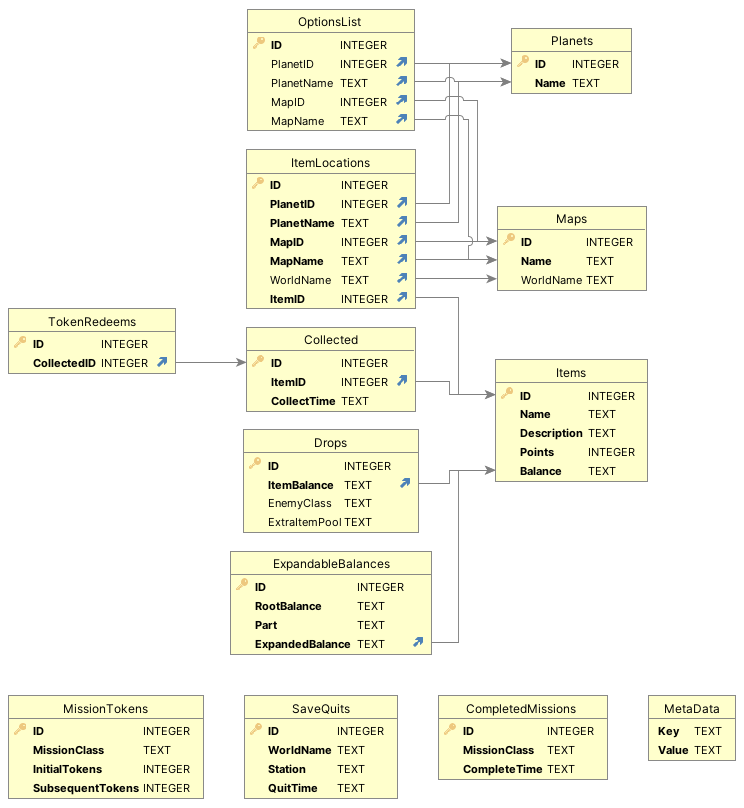
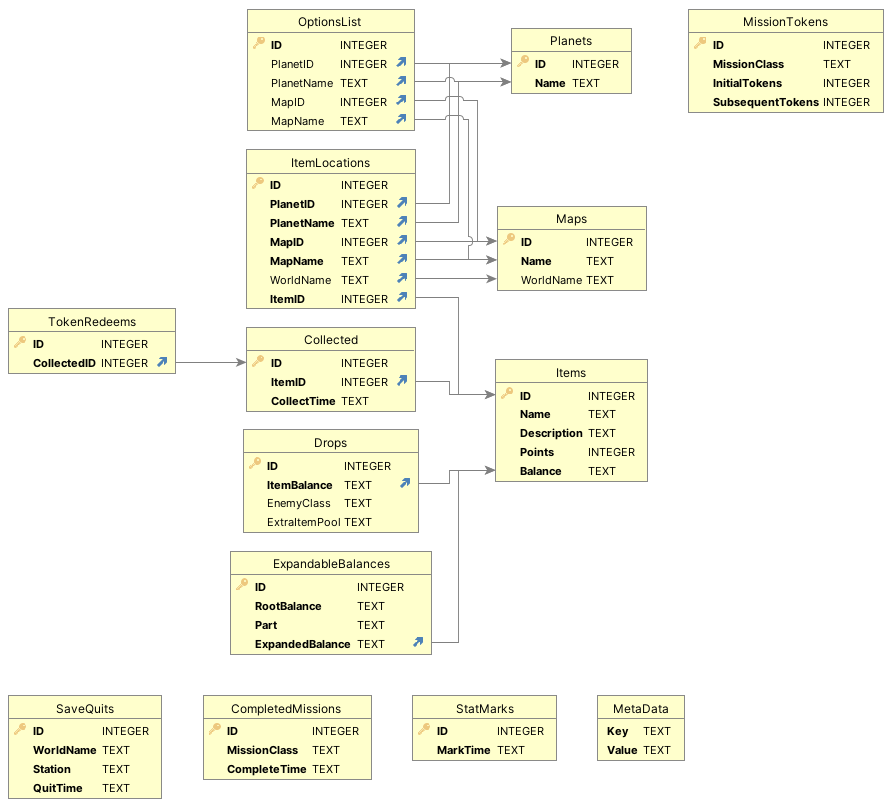
add mark system to osd

diff --git a/hunt/osd.py b/hunt/osd.py
@@ -216,7 +216,7 @@ ALL_STATS: tuple[HuntStat, ...] = (
         "SQs Since Last Drop",
         False,
         description=(
-            "Show the amount of times you've sq since collecting the last drop, including"
+            "Show the amount of times you've save quit since collecting the last drop, including"
             " duplicates."
         ),
         format_id="sqs_since_last_drop",
@@ -244,8 +244,8 @@ ALL_STATS: tuple[HuntStat, ...] = (
         "SQs Since Last Item",
         False,
         description=(
-            "Show the amount of times you've sq since collecting the last new item, excluding"
-            " duplicates."
+            "Show the amount of times you've save quit since collecting the last new item,"
+            " excluding duplicates."
         ),
         format_id="sqs_since_last_item",
         sql="""
@@ -264,6 +264,87 @@ ALL_STATS: tuple[HuntStat, ...] = (
                             NumCollected > 0
                         ORDER BY
                             FirstCollectTime DESC
+                        LIMIT 1
+                    ),
+                    ''
+                )
+            """,
+    ),
+    HuntStat(
+        "Items Since Last Mark",
+        False,
+        description=(
+            "Show the amount of new unique items you've collected since last setting a mark,"
+            " excluding duplicates."
+        ),
+        format_id="items_since_last_mark",
+        sql="""
+            SELECT
+                COUNT(*) FILTER (WHERE NumCollected > 0)
+            FROM
+                CollectedItems
+            WHERE
+                FirstCollectTime > IFNULL(
+                    (
+                        SELECT
+                            MarkTime
+                        FROM
+                            StatMarks
+                        ORDER BY
+                            rowid DESC
+                        LIMIT 1
+                    ),
+                    ''
+                )
+            """,
+    ),
+    HuntStat(
+        "Drops Since Last Mark",
+        False,
+        description=(
+            "Show the amount of drops you've collected since last setting a mark, including"
+            " duplicates."
+        ),
+        format_id="drops_since_last_mark",
+        sql="""
+            SELECT
+                COUNT(*)
+            FROM
+                Collected
+            WHERE
+                CollectTime > IFNULL(
+                    (
+                        SELECT
+                            MarkTime
+                        FROM
+                            StatMarks
+                        ORDER BY
+                            rowid DESC
+                        LIMIT 1
+                    ),
+                    ''
+                )
+            """,
+    ),
+    HuntStat(
+        "SQs Since Last Mark",
+        False,
+        description="Show the amount of times you've save quit since last setting a mark.",
+        format_id="sqs_since_last_mark",
+        sql="""
+            SELECT
+                COUNT(*)
+            FROM
+                SaveQuits
+            WHERE
+                QuitTime > IFNULL(
+                    (
+                        SELECT
+                            MarkTime
+                        FROM
+                            StatMarks
+                        ORDER BY
+                            rowid DESC
                         LIMIT 1
                     ),
                     ''

diff --git a/hunt/mod_class.py b/hunt/mod_class.py
@@ -15,7 +15,7 @@ from mods_base import (
 )
 
 from .db import open_db, reset_db
-from .db_options import MapOption, PlanetOption, create_item_option
+from .db_options import FullItemListOption, MapOption, PlanetOption, create_item_option
 from .native import drops
 from .osd import OUTPUT_TEXT_FILE, TEMPLATE_TEXT_FILE, osd_option, update_osd
 from .tokens import redeem_token_option
@@ -46,6 +46,24 @@ def gen_item_options() -> Iterator[BaseOption]:
             else:
                 assert planet_id is not None and planet_name is not None
                 yield PlanetOption(planet_name, planet_id=planet_id)
+
+
+yes_choice = DialogBoxChoice("Yes")
+
+
+@DialogBox(
+    "Set a new Mark?",
+    (yes_choice, DialogBox.CANCEL),
+    "Are you sure you want to set a new mark?",
+    dont_show=True,
+)
+def confirm_mark(choice: DialogBoxChoice) -> None:
+    """Dialog box to confirm setting a mark."""
+    if choice != yes_choice:
+        return
+    with open_db("w") as cur:
+        cur.execute("INSERT INTO StatMarks DEFAULT VALUES")
+    update_osd()
 
 
 def gen_progression_options() -> Iterator[BaseOption]:
@@ -95,6 +113,18 @@ def gen_progression_options() -> Iterator[BaseOption]:
                     "Update Now",
                     description="Forces the displays to update now.",
                     on_press=lambda _: update_osd(),
+                ),
+                ButtonOption(
+                    "Set Mark",
+                    description=(
+                        "Some stats count since the last time you set a mark. You can set a mark"
+                        " here at any time, to allow you to track these stats over an arbitrary"
+                        " period of time.\n"
+                        "\n"
+                        "For example, you might want to set a mark before starting Arms Race, so"
+                        " that you can track the total amount of SQs it takes you to clear it."
+                    ),
+                    on_press=lambda _: confirm_mark.show(),
                 ),
                 GroupedOption(
                     "External Text File",

diff --git a/hunt/generate_db/generate.py b/hunt/generate_db/generate.py
@@ -1474,5 +1474,15 @@ if __name__ == "__main__":
                 (root_balance, part, expanded_balance),
             )
 
+    cur.execute(
+        """
+        CREATE TABLE StatMarks (
+            ID       INTEGER NOT NULL UNIQUE,
+            MarkTime TEXT NOT NULL DEFAULT CURRENT_TIMESTAMP,
+            PRIMARY KEY(ID AUTOINCREMENT)
+        )
+        """,
+    )
+
     cur.close()
     con.commit()

diff --git a/hunt/generate_db/Readme.md b/hunt/generate_db/Readme.md
@@ -175,6 +175,17 @@ allows coming up with interesting stats such as "Total SQs" or "SQs since last d
 `WorldName` is *not* a foreign key on `Maps(WorldName)`. This makes sure this table can still be
 insert into even if the maps table is incomplete.
 
+### `StatMarks`
+Again, this table exists purely for data analysis. Users can create a new mark at any time, which
+inserts a new row with the current time, allowing queries like "SQs since last mark".
+
+| Column   | Description                                    |
+| -------- | ---------------------------------------------- |
+| ID       | Primary key.                                   |
+| MarkTime | A datetime, defaults to the current timestamp. |
+
+The tracker assumes the lowest row is always the latest mark - it only ever inserts default values.
+
 ### `Planets`
 Essentially just an enum. The names of the "planets" we sort the options list into.
 
